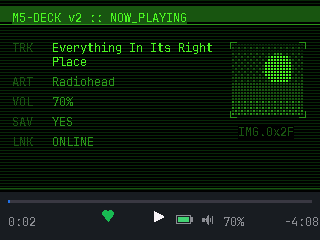
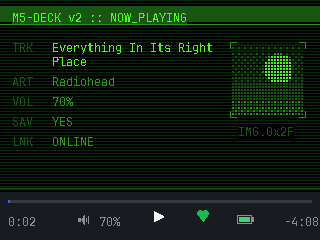
Balance the status strip; Tetris rain in the NES margins
The strip crammed battery and volume against the right edge and left a hole
between the elapsed time and the play glyph. Volume now sits alone on the
left half — its speaker-plus-figure group weighs the same ~44px as heart and
battery together — with the glyph still dead centre and even gaps on both
sides.

The NES view's empty flanks run attract-mode Tetris: six tetrominoes falling
in four lanes, positions pure functions of a play-gated clock so pause
freezes them mid-fall, clipped to their band so they never touch the HUD,
the level, or the title.

Claude-Session: https://claude.ai/code/session_012Gz9e6dABK2KGGRDHeWdSC

Changed region(s): [[0.5312, 0.875, 0.8125, 0.9333], [0.3125, 0.875, 0.375, 0.9625], [0.2188, 0.9042, 0.2812, 0.9333]]

diff --git a/src/ui/modes/NesMode.cpp b/src/ui/modes/NesMode.cpp
@@ -2,12 +2,14 @@
 #include "../../core/Hash.h"
 
 #include <cctype>
+#include <cmath>
 #include <cstdio>
 #include <cstring>
 
 #include "../../art/ArtRenderer.h"
 #include "../TextWrap.h"
 #include "../Theme.h"
+#include "../../core/Hash.h"
 
 namespace {
 
@@ -74,6 +76,44 @@ void hudValue(int x, const char *val) {
   M5.Display.setTextColor(theme::pal.dim, theme::pal.bg);
   M5.Display.setCursor(x, HUD_Y + 14);
   M5.Display.print(val);
+}
+
+// Attract-mode Tetris geometry. Two lanes per side, clear of everything:
+// HUD ends ~y36, the level spans x96..224, the title band starts y176.
+constexpr int TET_TOP = 42;
+constexpr int TET_BOTTOM = 170;
+constexpr int TET_CELL = 7;
+constexpr int TET_LANES[4] = {10, 52, 240, 282};  // lane x, two per side
+
+// The seven tetrominoes as 4x2 cell masks (row-major, bit 3 = leftmost).
+constexpr uint8_t TET_SHAPES[7][2] = {
+    {0b1111, 0b0000},  // I
+    {0b0110, 0b0110},  // O
+    {0b1110, 0b0100},  // T
+    {0b0110, 0b1100},  // S
+    {0b1100, 0b0110},  // Z
+    {0b1110, 0b1000},  // J
+    {0b1110, 0b0010},  // L
+};
+// Tier-2 NES palette entries, one per shape, like the cartridge would.
+constexpr uint32_t TET_COLORS[7] = {0x48CDDE, 0xEA9E22, 0xA01ACC, 0x0C9300,
+                                    0xB53120, 0x155FD9, 0x994E00};
+
+// The classic block: filled cell, dark outline, light glint pixel.
+void drawTetCell(int x, int y, uint32_t rgb) {
+  M5.Display.fillRect(x, y, TET_CELL, TET_CELL, col(rgb));
+  M5.Display.drawRect(x, y, TET_CELL, TET_CELL, col(0x0F0F0F));
+  M5.Display.fillRect(x + 1, y + 1, 2, 2, col(0xFFFEFF));
+}
+
+void drawTetPiece(int shape, int x, int y, uint32_t rgb) {
+  for (int r = 0; r < 2; ++r) {
+    for (int c = 0; c < 4; ++c) {
+      if (TET_SHAPES[shape][r] & (1 << (3 - c))) {
+        drawTetCell(x + c * TET_CELL, y + r * TET_CELL, rgb);
+      }
+    }
+  }
 }
 
 // A chunky 8px coin: gold circle, darker rim, slot.
@@ -162,10 +202,50 @@ void NesMode::enter(const AppState &st, const ViewCtx &ctx) {
   last_play_ = -1;
   last_liked_ = -2;
   last_coins_ = -1;
+
+  seed_ = fnv1a(st.pb.track_id);
+  last_ms_ = 0;
+  for (int i = 0; i < PIECES; ++i) piece_last_y_[i] = -10000;
 }
 
-void NesMode::tick(const AppState &st, const ViewCtx &ctx, uint32_t) {
+void NesMode::tick(const AppState &st, const ViewCtx &ctx, uint32_t now_ms) {
   using namespace theme;
+
+  // Tetris rain. The clock only advances while playing, so pause freezes the
+  // pieces mid-fall along with everything else on the device.
+  const float dt =
+      last_ms_ == 0 ? 0.016f : (now_ms - last_ms_ < 100 ? (now_ms - last_ms_) / 1000.0f : 0.1f);
+  last_ms_ = now_ms;
+  if (st.pb.is_playing) clock_ += dt;
+  {
+    constexpr int RANGE = TET_BOTTOM - TET_TOP;
+    constexpr int PIECE_H = TET_CELL * 2;
+    for (int i = 0; i < PIECES; ++i) {
+      const uint32_t h = seed_ ^ (0x9e3779b9u * (i + 1));
+      const int lane = TET_LANES[(h >> 4) % 4];
+      const int shape = (h >> 8) % 7;
+      const float speed = 14.0f + ((h >> 12) % 20);          // px/s
+      const float phase = static_cast<float>((h >> 16) % RANGE);
+      const int span = RANGE + PIECE_H;
+      int y = TET_TOP - PIECE_H +
+              static_cast<int>(std::fmod(clock_ * speed + phase,
+                                         static_cast<float>(span)));
+      if (y == piece_last_y_[i]) continue;
+      // Erase the previous position; lanes never overlap anything else, so a
+      // plain background fill is safe.
+      if (piece_last_y_[i] > -10000) {
+        M5.Display.fillRect(lane, piece_last_y_[i], TET_CELL * 4, PIECE_H,
+                            pal.bg);
+      }
+      // Clip to the band by drawing only rows fully inside it.
+      if (y >= TET_TOP - PIECE_H && y <= TET_BOTTOM) {
+        M5.Display.setClipRect(lane, TET_TOP, TET_CELL * 4, RANGE);
+        drawTetPiece(shape, lane, y, TET_COLORS[shape]);
+        M5.Display.clearClipRect();
+      }
+      piece_last_y_[i] = y;
+    }
+  }
 
   // TIME counts down in whole seconds, like a level timer.
   const int remain =

diff --git a/src/ui/StatusStrip.h b/src/ui/StatusStrip.h
@@ -54,13 +54,14 @@ class StatusStrip {
   char last_track_[ID_LEN] = {};
 };
 
-// Where the strip's heart sits, shared with the tests. The 24px sprite is
-// centred between the elapsed time and the glyph.
-constexpr int STRIP_HEART_X = 96;
+// Strip layout, shared with the tests. The glyph anchors dead centre; volume
+// sits alone on the left half and heart + battery on the right, because the
+// volume group (~44px) visually weighs the same as those two together (~41px).
+// The first arrangement crammed battery and volume against the right edge and
+// left a hole between the elapsed time and the glyph.
+//
+//   0:42     vol      >      heart   batt     -3:18
+constexpr int STRIP_VOL_X = 78;
+constexpr int STRIP_HEART_X = 191;
 constexpr int STRIP_HEART_Y = 204;
-
-// The battery glyph, between the play glyph and the volume. It replaced a
-// floating top-right badge that every single view had to lay out around —
-// the classic title stepped down for it, the NES HUD moved its TIME column,
-// the Game Boy cart clipped it mid-drop. One bar owns all status now.
-constexpr int STRIP_BATT_X = 176;
+constexpr int STRIP_BATT_X = 237;

diff --git a/tools/visual_tests.py b/tools/visual_tests.py
@@ -24,10 +24,10 @@ BIN = os.path.join(ROOT, ".pio", "build", "native", "program")
 
 # Regions, matching src/ui/Theme.h
 ART = (8, 8, 176, 176)
-# Heart lives in the shared StatusStrip now, between elapsed and the glyph.
-HEART = (96, 204, 24, 24)
-# Speaker + volume figure in the strip.
-VOLUME = (196, 206, 60, 18)
+# Heart lives in the shared StatusStrip, right of the centre glyph.
+HEART = (191, 204, 24, 24)
+# Speaker + volume figure, alone on the strip's left half.
+VOLUME = (74, 206, 60, 18)
 # Progress bar row in the strip.
 BARROW = (8, 200, 304, 3)
 ROW = (0, 206, 320, 34)
@@ -39,7 +39,7 @@ TEXT_TOP = (192, 8, 120, 26)
 # Beacon sprite on the status screen: 96x96, centred, pushed at y=18.
 BEACON = (112, 18, 96, 96)
 # Battery glyph in the StatusStrip, between the play glyph and the volume.
-BATTERY = (174, 212, 22, 14)
+BATTERY = (234, 212, 22, 14)
 
 
 def read_bmp(path):

diff --git a/src/ui/modes/NesMode.h b/src/ui/modes/NesMode.h
@@ -16,6 +16,10 @@
 //
 // Liked = a 1UP heart, volume = a coin counter, and pausing drops the classic
 // centred "- PAUSED -" over the level.
+//
+// The margins either side of the level run attract-mode Tetris: tetrominoes
+// falling in their own lanes, frozen while paused. They never enter the HUD,
+// the level, or the title band.
 class NesMode : public ViewMode {
  public:
   const char *name() const override { return "nes"; }
@@ -29,4 +33,12 @@ class NesMode : public ViewMode {
   int last_play_ = -1;
   int last_liked_ = -2;
   int last_coins_ = -1;
+
+  // Attract-mode Tetris. Position is pure f(clock), so pausing the clock
+  // freezes every piece; only the previous integer y is stored, for erasing.
+  float clock_ = 0.0f;
+  uint32_t last_ms_ = 0;
+  uint32_t seed_ = 0;
+  static constexpr int PIECES = 6;
+  int piece_last_y_[PIECES] = {};
 };

diff --git a/src/ui/StatusStrip.cpp b/src/ui/StatusStrip.cpp
@@ -14,7 +14,7 @@
 // blits.
 
 namespace {
-constexpr int VOL_X = 202;
+constexpr int VOL_X = STRIP_VOL_X;
 }
 
 void StatusStrip::release() {
